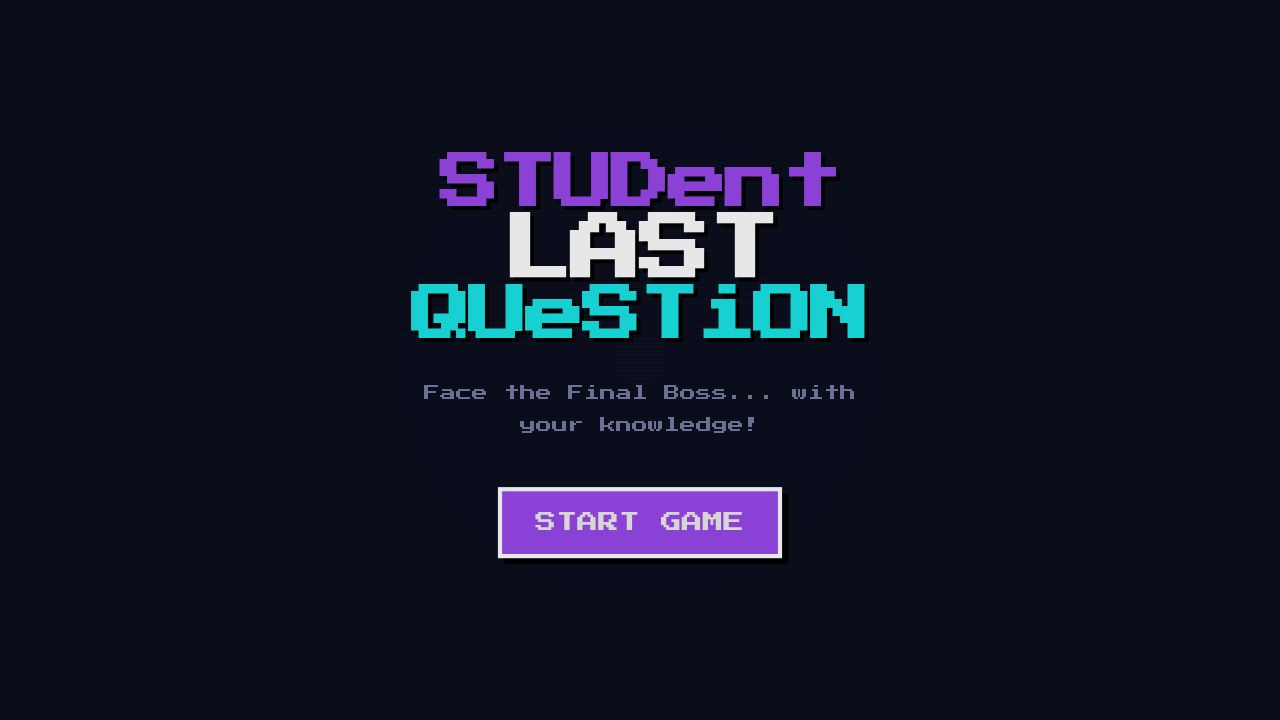
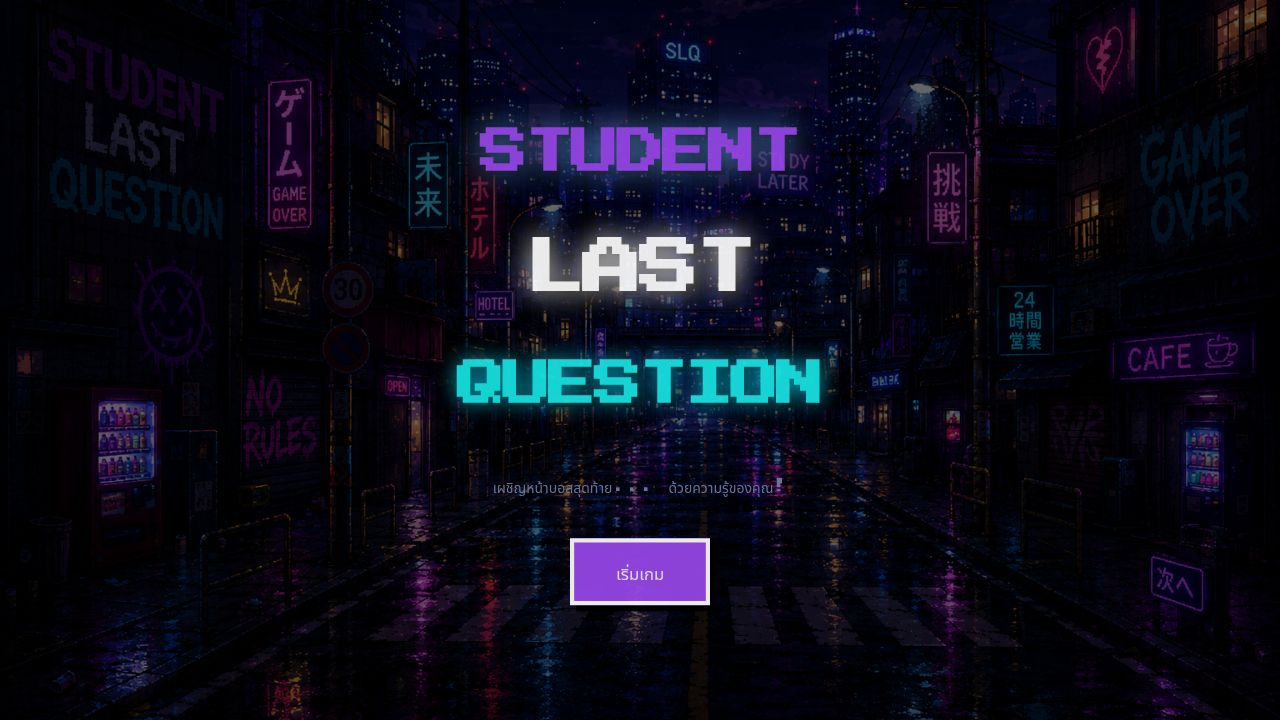
Refactor question system to use a single, persistent global deck
Replace individual question pools with a single global deck that is refilled and reshuffled only when empty or when difficulty changes.

Replit-Commit-Author: Agent
Replit-Commit-Session-Id: 6665685b-fb94-44f9-86a0-f2e3ca8d0a36
Replit-Commit-Checkpoint-Type: full_checkpoint
Replit-Commit-Event-Id: 1989357c-450c-4af6-951e-cfc7321977b1
Replit-Commit-Screenshot-Url: https://storage.googleapis.com/screenshot-production-us-central1/08b8414c-4a3c-4507-9419-6fa5d88b7ef2/6665685b-fb94-44f9-86a0-f2e3ca8d0a36/KWzJliK
Replit-Helium-Checkpoint-Created: true

diff --git a/artifacts/student-last-question/src/pages/GameScreen.tsx b/artifacts/student-last-question/src/pages/GameScreen.tsx
@@ -93,10 +93,12 @@ export default function GameScreen() {
   const coinsRef           = useRef(0);
   const statsRef           = useRef({ correct: 0, wrong: 0, stagesCleared: 0 });
   const stageIndexRef      = useRef(0);
-  const questionsPoolRef     = useRef<Question[]>([]);          // pool for current difficulty bracket
-  const usedIdsRef           = useRef<Set<number>>(new Set()); // IDs consumed from pool
-  const currentDifficultyRef = useRef<"easy" | "medium" | "hard">("easy"); // bracket tracker
-  const ultimateUsedRef      = useRef(false);                  // guard: prevent double-fire
+  // ─── Global Deck (single source of truth for all questions) ─────────────────
+  // Initialized ONCE per difficulty bracket. getNextQuestion() pops from it.
+  // Only refilled when length === 0. advanceStage() never touches it.
+  const globalDeckRef     = useRef<Question[]>([]);
+  const deckDifficultyRef = useRef<"" | "easy" | "medium" | "hard">("");
+  const ultimateUsedRef   = useRef(false); // guard: prevent double-fire
 
   // ─── Load first question on mount ────────────────────────────────────────────
   useEffect(() => {
@@ -108,30 +110,39 @@ export default function GameScreen() {
   }, [selectedCharacter, selectedSubject]);
 
   /**
-   * Pick a random unused question from the pool, shuffle its choices, and display it.
-   * When all questions in the pool have been used, reset used-IDs and start fresh
-   * (so a full stage never runs out of questions).
+   * Returns the difficulty bracket name for a given stage index.
+   */
+  const getDifficulty = (stageIdx: number): "easy" | "medium" | "hard" =>
+    stageIdx <= 1 ? "easy" : stageIdx <= 3 ? "medium" : "hard";
+
+  /**
+   * Pops the next question from the Global Deck.
+   *
+   * Rules (enforced here — nowhere else):
+   *  1. If the deck is empty OR the difficulty bracket changed → refill & reshuffle.
+   *  2. Pop one question from the end of the deck (O(1) removal).
+   *  3. The deck is NEVER touched by advanceStage() or any monster logic.
+   */
+  const getNextQuestion = (stageIdx: number, subject: Subject): Question => {
+    const diff = getDifficulty(stageIdx);
+
+    // Refill only when empty (or when entering a new difficulty bracket)
+    if (globalDeckRef.current.length === 0 || diff !== deckDifficultyRef.current) {
+      deckDifficultyRef.current = diff;
+      // getQuestionsForStage already Fisher-Yates shuffles the pool
+      globalDeckRef.current = getQuestionsForStage(subject, stageIdx);
+    }
+
+    // Pop from the end — steadily decreasing global deck
+    return globalDeckRef.current.pop()!;
+  };
+
+  /**
+   * Pulls from the Global Deck, shuffles the answer choices, and displays the question.
+   * This is the ONLY entry point for question display. It calls getNextQuestion().
    */
   const loadNewQuestion = (stageIdx: number, subject: Subject) => {
-    // Ensure pool is populated for this stage
-    if (questionsPoolRef.current.length === 0) {
-      questionsPoolRef.current = getQuestionsForStage(subject, stageIdx);
-    }
-
-    // Filter to questions not yet used this stage
-    let available = questionsPoolRef.current.filter(q => !usedIdsRef.current.has(q.id));
-
-    // All used → reset and allow all again (new cycle)
-    if (available.length === 0) {
-      usedIdsRef.current.clear();
-      available = questionsPoolRef.current;
-    }
-
-    // Pick randomly from available unused questions
-    const q = available[Math.floor(Math.random() * available.length)];
-    usedIdsRef.current.add(q.id);
-
-    // Shuffle answer choices so order differs every time
+    const q = getNextQuestion(stageIdx, subject);
     setCurrentQuestion(shuffleChoices(q));
     setSelectedAnswer(null);
     setFeedback(null);
@@ -197,21 +208,13 @@ export default function GameScreen() {
   }, [allEnemies, setGameResult, setLocation]);
 
   // ─── Advance to next stage ───────────────────────────────────────────────────
+  // NOTE: No pool logic here. getNextQuestion() owns the Global Deck entirely.
   const advanceStage = useCallback((nextIdx: number) => {
     stageIndexRef.current = nextIdx;
     setStageIndex(nextIdx);
     const nextEnemy = allEnemies[nextIdx];
     enemyHPRef.current = nextEnemy.maxHP;
     setEnemyHP(nextEnemy.maxHP);
-    // Only wipe pool when difficulty bracket changes (easy→medium→hard).
-    // Within the same bracket, all monsters share one depleting pool.
-    const newDiff: "easy" | "medium" | "hard" =
-      nextIdx <= 1 ? "easy" : nextIdx <= 3 ? "medium" : "hard";
-    if (newDiff !== currentDifficultyRef.current) {
-      questionsPoolRef.current = [];
-      usedIdsRef.current.clear();
-      currentDifficultyRef.current = newDiff;
-    }
     setPendingNextStage(false);
     if (selectedSubject) loadNewQuestion(nextIdx, selectedSubject);
   }, [allEnemies, selectedSubject]);